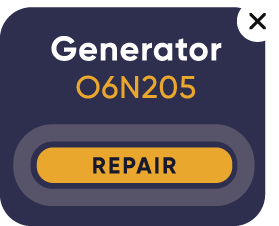
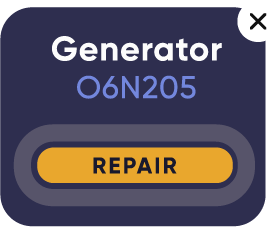
diagnosing faults actioned snagging

diff --git a/app.js b/app.js
@@ -417,6 +417,7 @@ $(function() {
 
   $('.btn__begin').click(function() {  
     $('#name').fadeOut(750);
+    console.clear();
     setTimeout(function() { 
         $('#menu').fadeIn();
     }, 1000);
@@ -1302,14 +1303,14 @@ $(function() {
       $('.fc01').addClass("animate__animated animate__flipOutY");
       setTimeout(function() { 
         $('.fc01').removeClass("animate__flipOutY").addClass("animate__flipInY");
-        $('.fc01').css('background', 'url("assets/05_diagnosing_faults/SVG/fault01_foundcard.svg")');
+        $('.fc01').css('background', 'url("assets/05_diagnosing_faults/SVG/fault01_foundcard.png")');
         $('.fc01').addClass('pe__none');
         //$('.btn__repair__hl01').addClass('pe__none');
         faultO2E821 = true;
         faultO4D367 = false;
         setTimeout(function() { 
           $('.fc01').removeClass('fault__card__border');
-          $('.fc02').removeClass('fc__opacity').addClass('fault__card__border');
+          $('.fc02').removeClass('fc__opacity');
           faultO2E821 = true;
           faultO4D367 = false;
       }, 1000); 
@@ -1319,20 +1320,20 @@ $(function() {
       $('.fc02').addClass("animate__animated animate__flipOutY");
       setTimeout(function() { 
         $('.fc02').removeClass("animate__flipOutY").addClass("animate__flipInY");
-        $('.fc02').css('background', 'url("assets/05_diagnosing_faults/SVG/fault02_foundcard.svg")');
+        $('.fc02').css('background', 'url("assets/05_diagnosing_faults/SVG/fault02_foundcard.png")');
         $('.fc02').addClass('pe__none');
         $('.btn__repair__hl01').addClass('pe__none');
 
         setTimeout(function() { 
-          $('.fc02').removeClass('fault__card__border');
+          // $('.fc02').removeClass('fault__card__border');
           $('.fc01 .fc02').removeClass('fc__opacity');
       }, 1000); 
     }, 500); 
     } 
 
     function completeDFMessage() {
-      $('.fc01').removeClass('fc__opacity fault__card__border');
-      $('.fc02').removeClass('fc__opacity fault__card__border');
+      // $('.fc01').removeClass('fc__opacity fault__card__border');
+      // $('.fc02').removeClass('fc__opacity fault__card__border');
       $('.mb02').removeClass('btn__play').addClass('complete')
       $('.bm02').css('background', 'rgba(25, 25, 45, 0.8)').addClass('pe__none')
       $('.mb03').removeClass('btn__lock').addClass('btn__play');
@@ -1355,6 +1356,13 @@ $(function() {
       }, 1000); 
   }, 6000); 
     }
+
+    $('.btn__repair').click(function() {
+      $('.btn__repair').addClass('pe__none');
+      setTimeout(function() { 
+        $('.btn__repair').removeClass('pe__none');
+    }, 3000); 
+    });
 
     $('.fc01').click(function() { 
       $(this).addClass('fault__card__border').removeClass('fc__opacity');

diff --git a/app.css b/app.css
@@ -593,6 +593,7 @@
     bottom: 235px;
     right: 272px;
     z-index: 25;
+    display: none;
   }
   .ratchet {
     background: url(assets/06_choosing_tools/1x/ratchet.png) no-repeat;
@@ -611,7 +612,7 @@
     width: 230px;
     position: absolute;
     top: 192px;
-    left: 780px;
+    left: 1554px;
   }
   .brush {
     background: url(assets/06_choosing_tools/tools/1x/brush.png) no-repeat;
@@ -637,9 +638,10 @@
     height: 280px;
     width: 110px;
     position: absolute;
-    top: 292px;
-    left: 1525px;
+    top: 465px;
+    left: 1454px;
     z-index: 5000 !important;
+
   }
   .oil {
     background: url(assets/06_choosing_tools/tools/1x/hose.png) no-repeat;
@@ -647,7 +649,7 @@
     height: 380px;
     width: 280px;
     position: absolute;
-    top: 192px;
+    top: 450px;
     left: 1542px;
   }
 
@@ -657,8 +659,8 @@
     height: 120px;
     width: 385px;
     position: absolute;
-    top: 590px;
-    left: 1372px;
+    top: 715px;
+    left: 1175px;
   }
   .flask {
     background: url(assets/06_choosing_tools/tools/1x/flask.png) no-repeat;
@@ -1516,13 +1518,15 @@
 }
 
 .fc01 {
-  background: url(assets/05_diagnosing_faults/SVG/SVG/faultcard01.svg);
+  background: url(assets/05_diagnosing_faults/SVG/SVG/faultcard01.png);
+  background-size: contain;
   -webkit-box-sizing: border-box; /* Safari/Chrome, other WebKit */
   -moz-box-sizing: border-box;    /* Firefox, other Gecko */
   box-sizing: border-box;
 }
 .fc02 {
-  background: url(assets/05_diagnosing_faults/SVG/SVG/faultcard02.svg);
+  background: url(assets/05_diagnosing_faults/SVG/SVG/faultcard02.png);
+  background-size: contain;
   -webkit-box-sizing: border-box; /* Safari/Chrome, other WebKit */
   -moz-box-sizing: border-box;    /* Firefox, other Gecko */
   box-sizing: border-box;

diff --git a/index.html b/index.html
@@ -2338,8 +2338,8 @@
             </div>
 
             <div class="sidebar">
-                <div class="fault__card fc01 fault__card__border"></div>
-                <div class="fault__card fc02 fc__opacity"></div>
+                <div class="fault__card fc01"></div>
+                <div class="fault__card fc02 fc__opacity pe__none"></div>
             </div>
 
 
